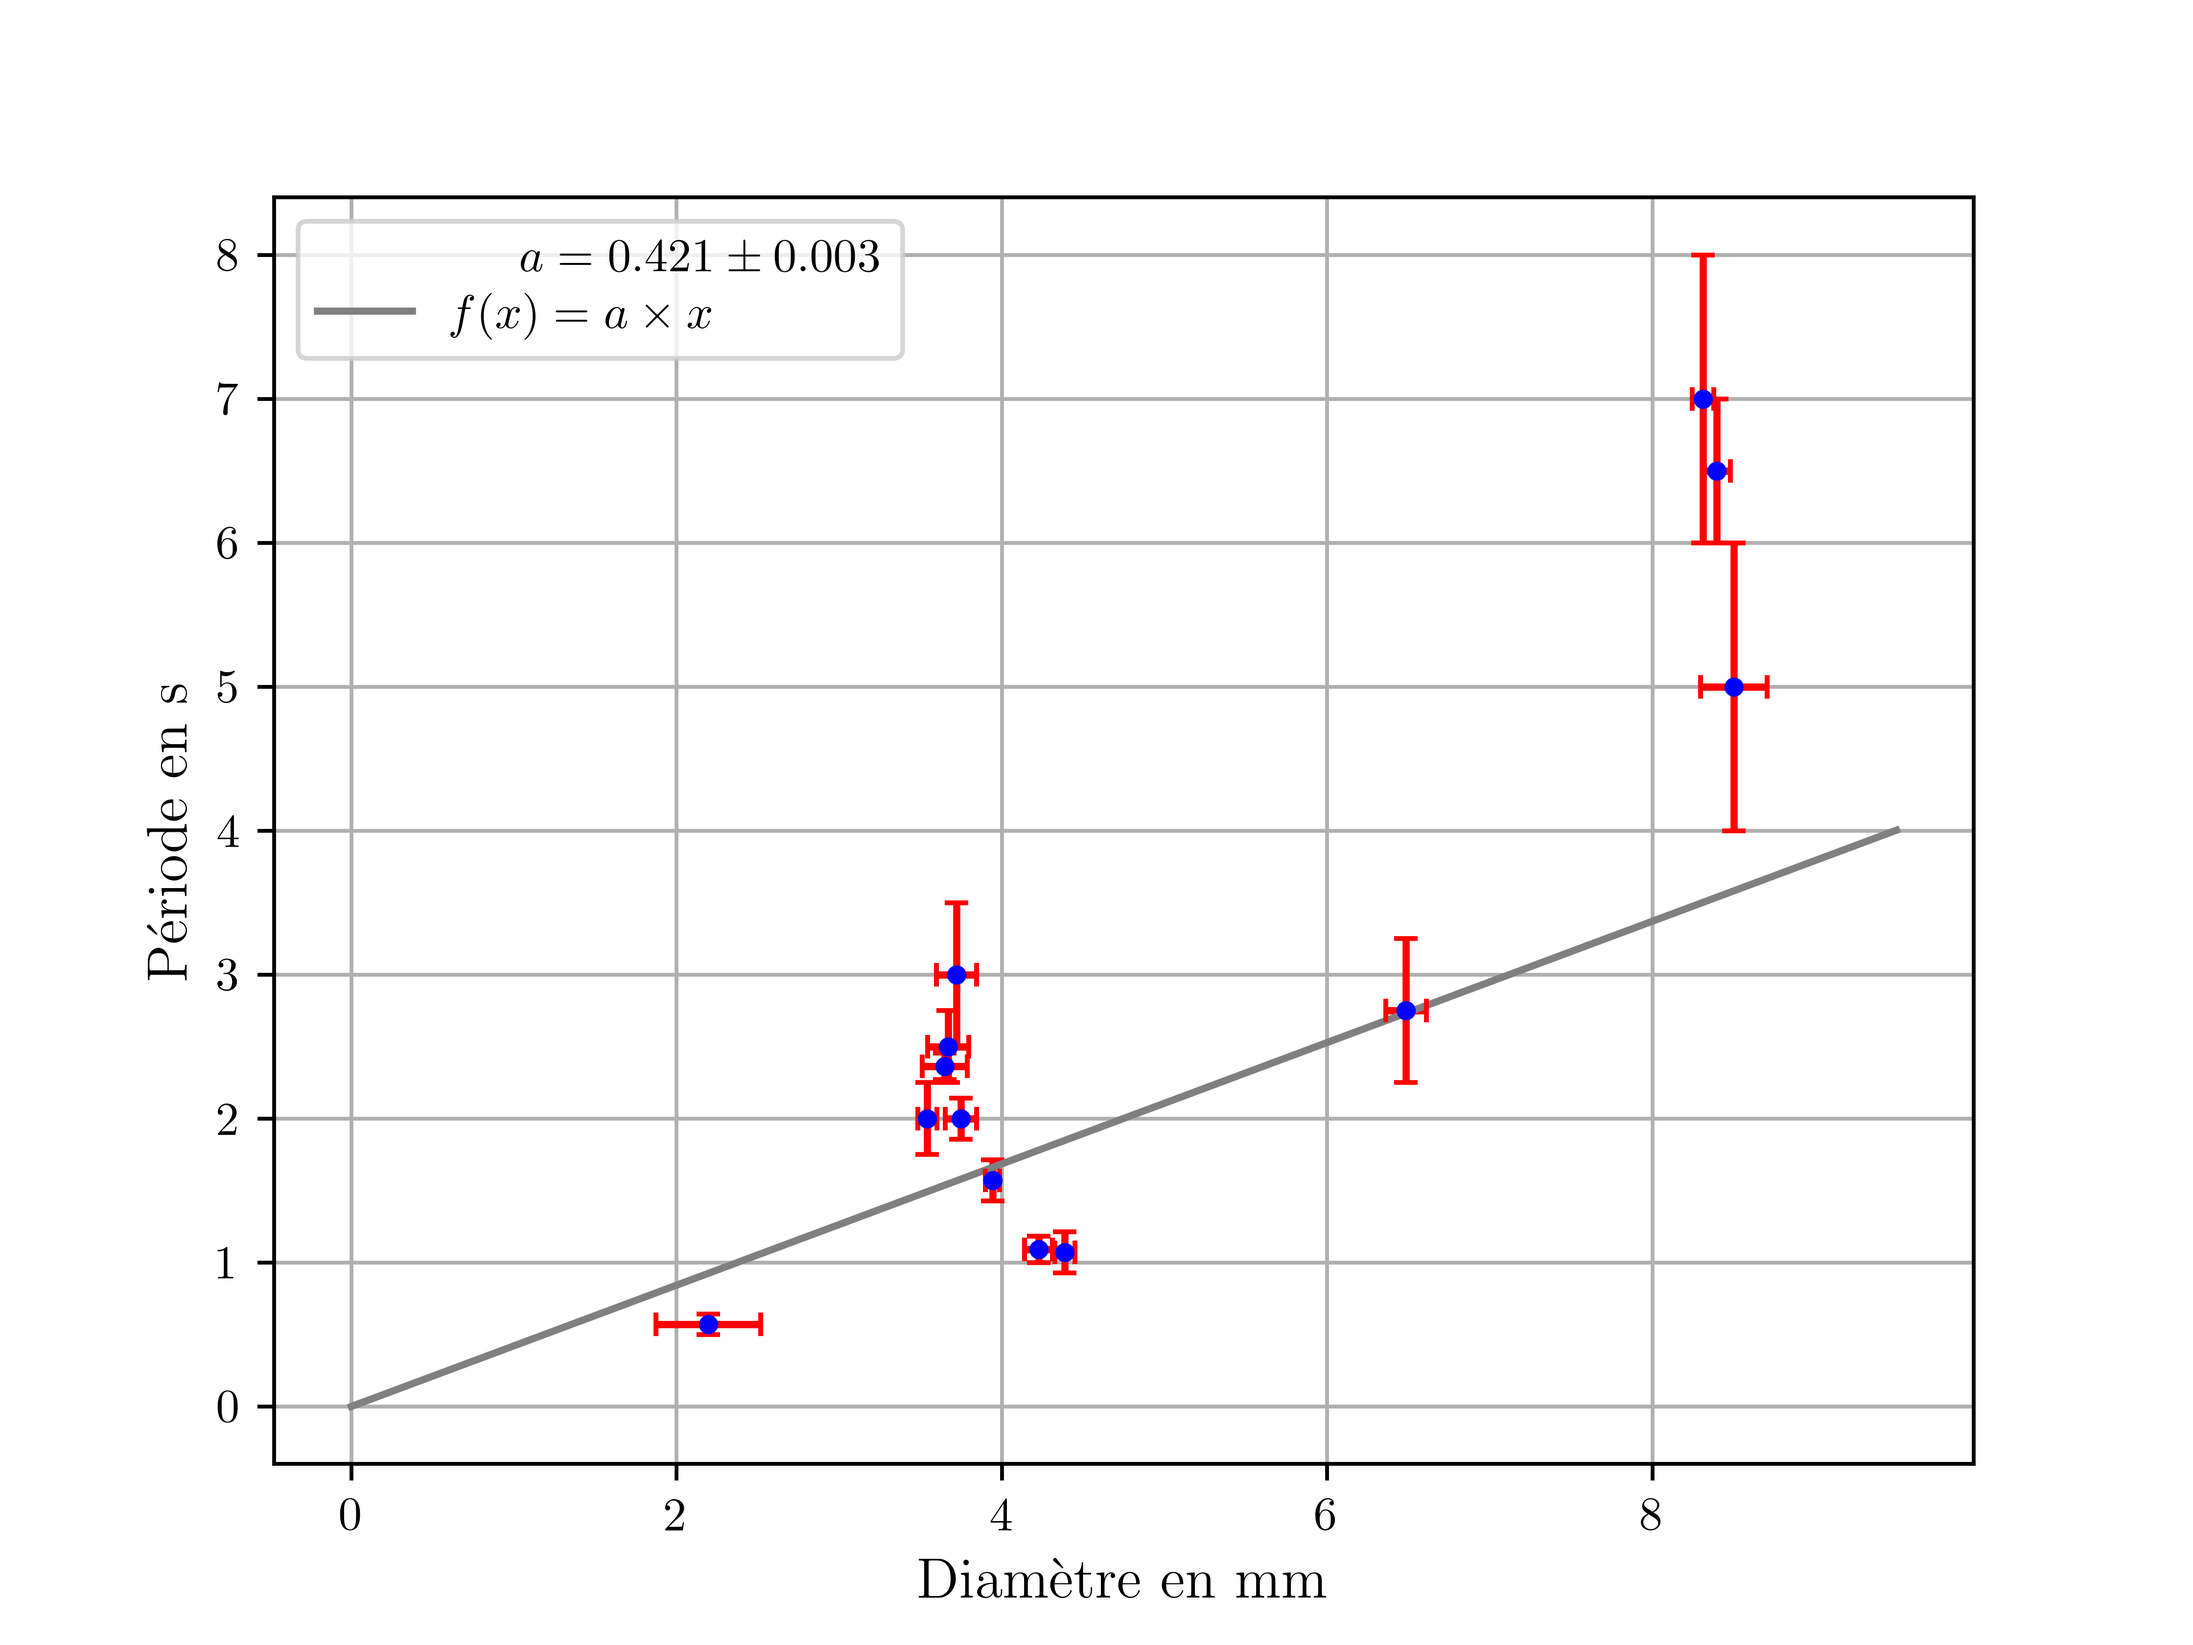
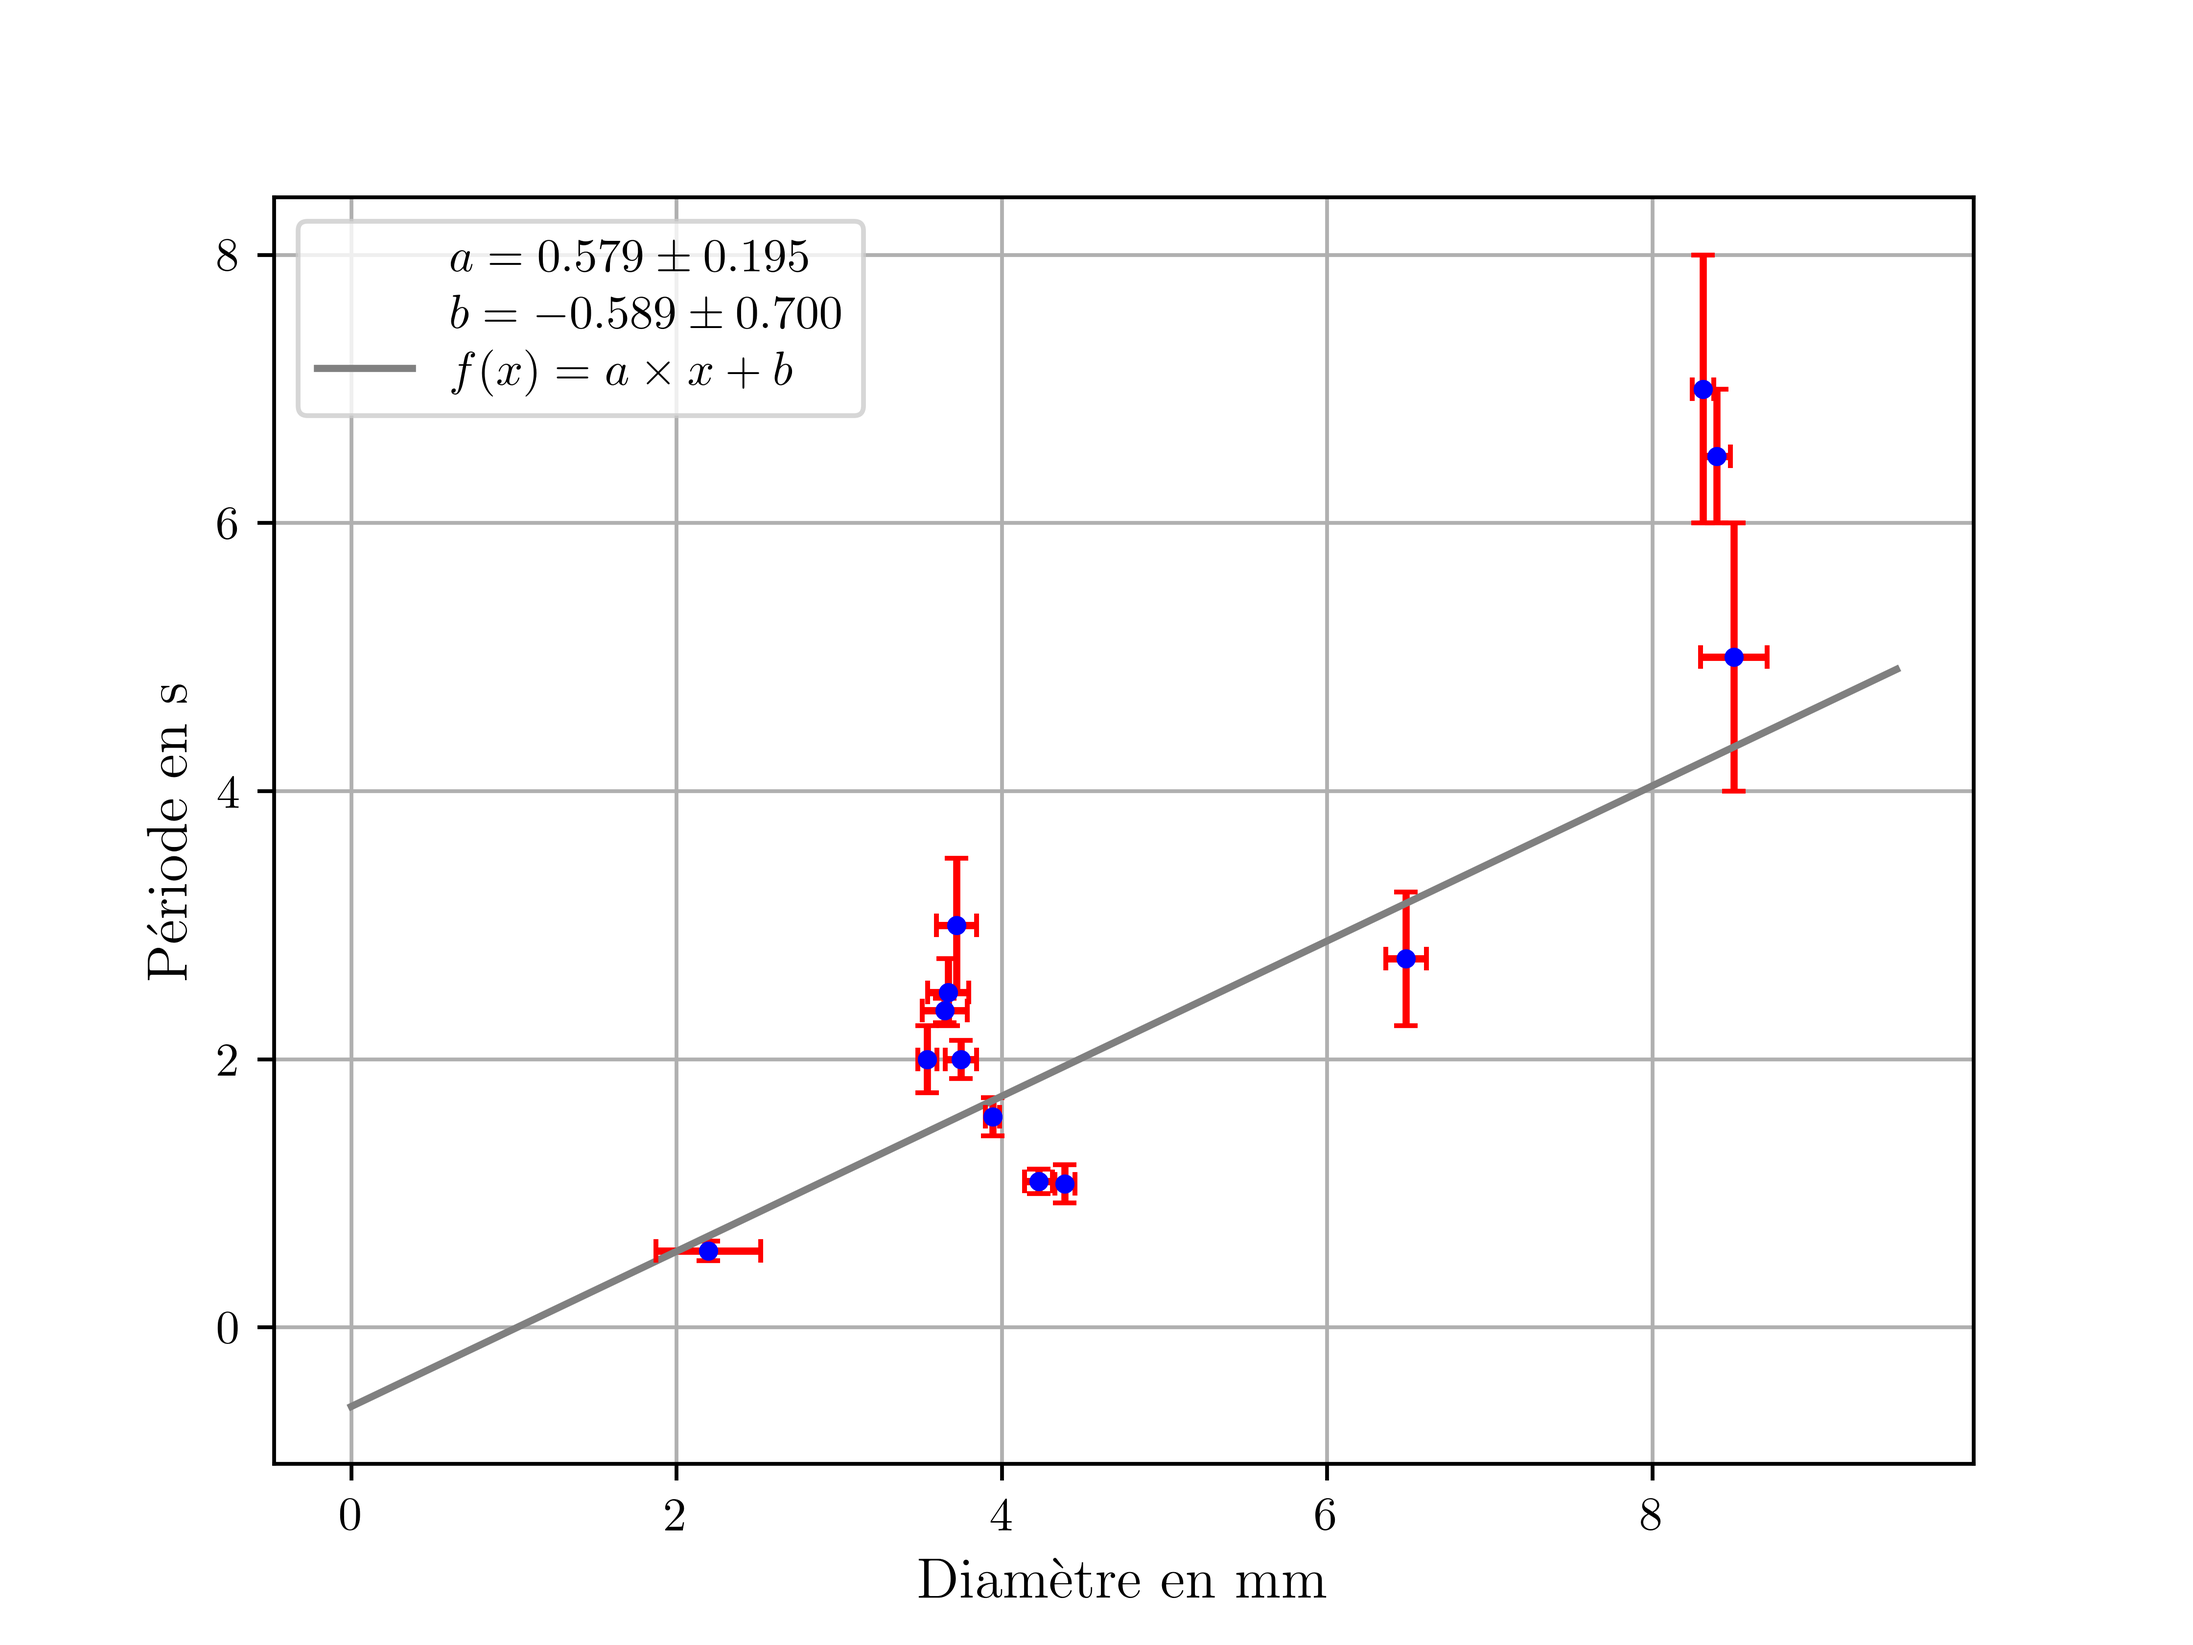
jeu. 28 mars 22:10

diff --git a/Data/graphs/periode.py b/Data/graphs/periode.py
@@ -39,12 +39,13 @@ X_error	= Data[:,1];
 Y	= Data[:,2];
 Y_error	= Data[:,3];
 
-def func(x,a):
-	return(a*x);
+def func(x,a,b):
+	return(a*x+b);
 
 popt, pcov = curve_fit(func, X, Y, sigma = Y_error);
+perr = np.sqrt(np.diag(pcov));
 
-print(*popt,"+-",*pcov[0]);
+print(*popt,"+-",*perr)
 x = np.linspace(0,X.max()+1,1000);
 y = func(x,*popt);
 
@@ -58,7 +59,7 @@ grid(True);
 
 plt.savefig('period.png', dpi=700);
 
-plt.plot(x,y,"gray",label=r"$a = %.3f \pm %.3f $ \\ $f(x) = a \times x$" %(*popt,*pcov));
+plt.plot(x,y,"gray",label=r"~\\ $a = %.3f \pm %.3f $ \\ $b = %.3f \pm %.3f$ \\$f(x) = a \times x + b$" %(popt[0],perr[0],popt[1],perr[1]));
 error(X, Y, xerr=X_error, fmt='.', ecolor='red',color='blue', capsize=2.5);
 plt.legend();
 plt.savefig('period_fth.png', dpi=700);
